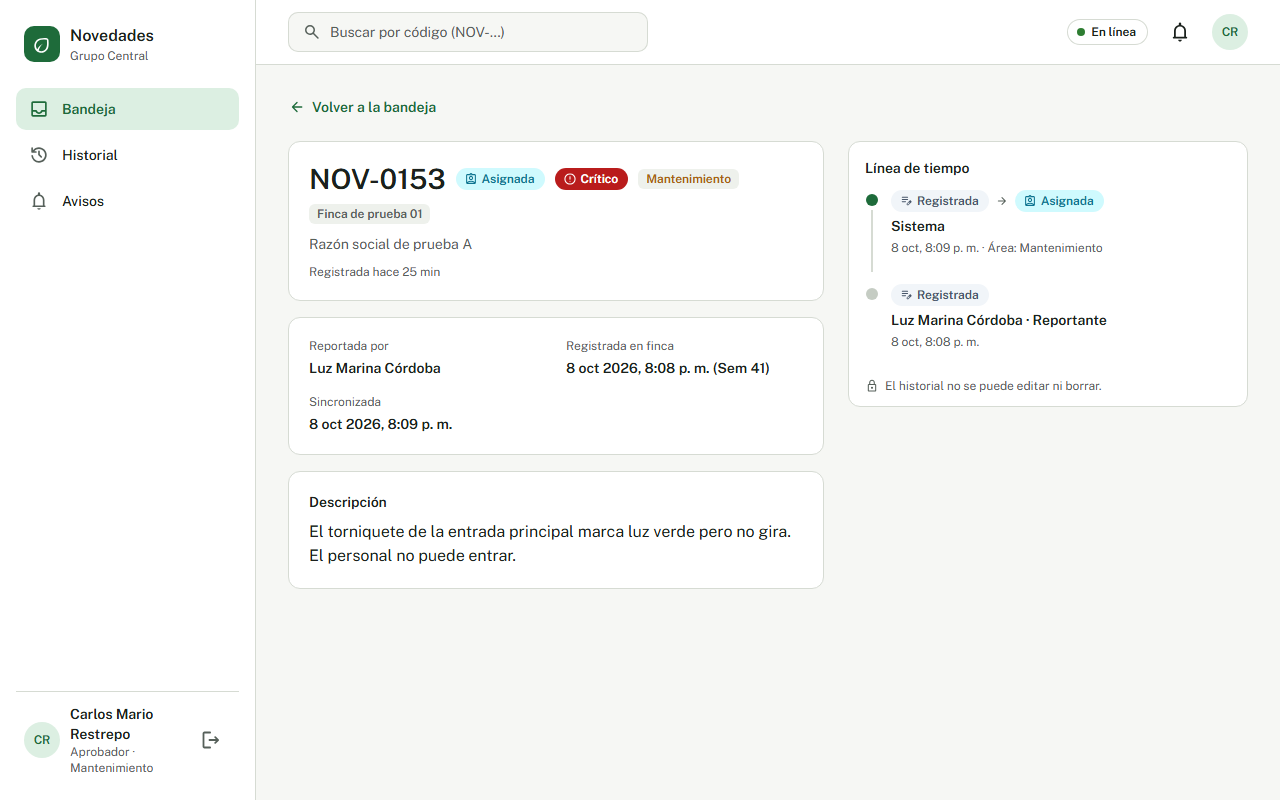
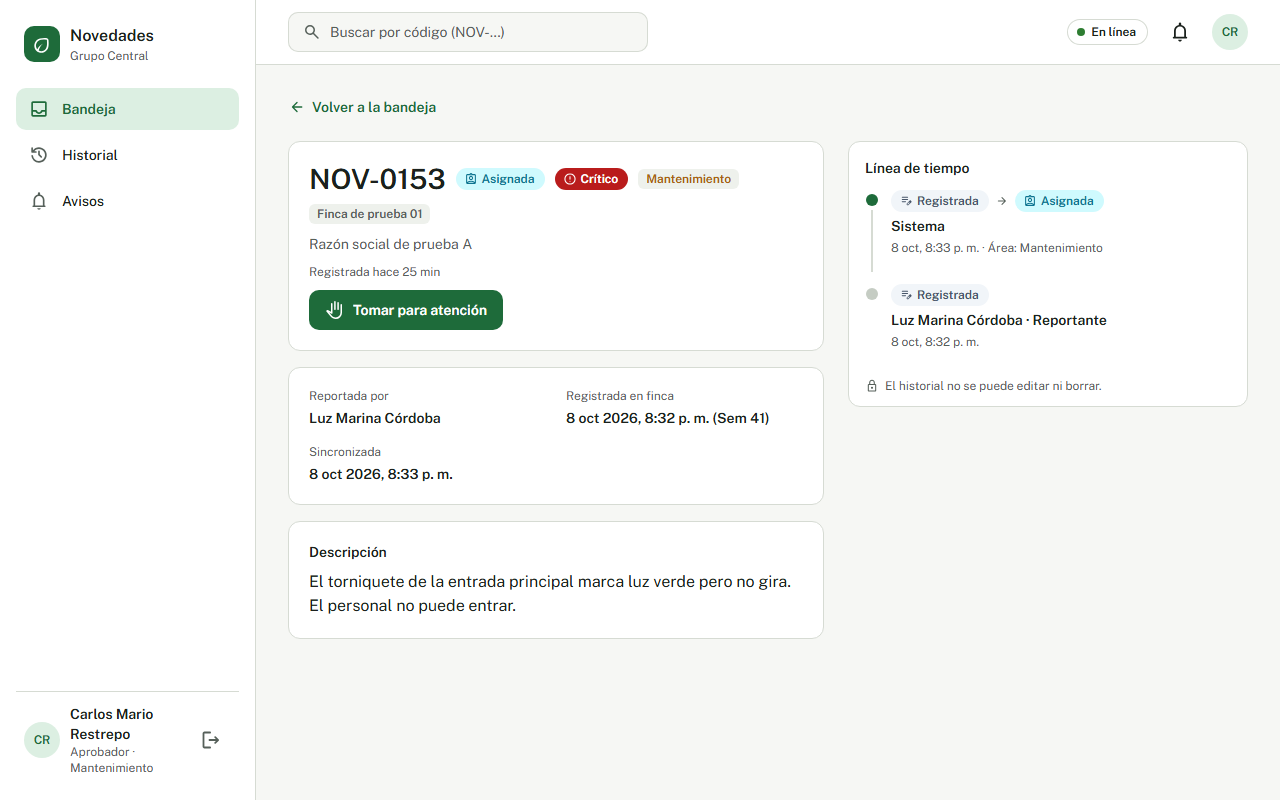
test(RF-10): e2e de CU-10, capturas y decisiones
- e2e/cu-10-tomar-novedad.spec.js: el aprobador abre la novedad desde su
  bandeja y la toma; el reportante recibe su aviso. Con dos ventanas, la
  segunda recibe «La novedad cambió de estado» y se actualiza.
- Capturas de 13, 13-B y 14-C a 360 × 800 y 1280 × 800, y de la vista previa
  de la bandeja con su acción.
- docs/cambios-sdd.md, punto 7: el rol que no corresponde a la acción recibe
  SIN_PERMISO, como la Tabla 22.
- docs/decisiones-pendientes.md, punto 21 y peso de la ruta de ingreso
  (185,6 KB de 200).

diff --git a/e2e/cu-10-tomar-novedad.spec.js b/e2e/cu-10-tomar-novedad.spec.js
@@ -1,0 +1,129 @@
+import { expect, test } from '@playwright/test'
+import { cargarTodaLaLista, novedadesDeLaLista, registrarPorLaApi } from './apoyo/novedades.js'
+import { descripcionUnica } from './apoyo/registro.js'
+import { HAY_CLAVE, ingresarComo, leerDeLaApi, MOTIVO_SIN_CLAVE } from './apoyo/usuarios.js'
+
+/*
+ * CU-10 · Tomar una novedad para atención (RF-10). Pantallas 13 (asignada), 13-B (tomada) y
+ * 14 (en atención).
+ *
+ * El aviso al reportante y el estado se comprueban leyendo la API con la sesión de cada uno:
+ * la pantalla de avisos llega en el Sprint 5.
+ */
+
+const ESPERA_DE_SESION = { timeout: 20_000 }
+
+test.describe('CU-10 · Tomar novedad para atención', () => {
+  test.skip(!HAY_CLAVE, MOTIVO_SIN_CLAVE)
+
+  const sesionDe = async (browser, rol) => {
+    const contexto = await browser.newContext()
+    const page = await contexto.newPage()
+    await ingresarComo(page, rol)
+    return { contexto, page }
+  }
+
+  /** El reportante registra una novedad para Mantenimiento y cierra su sesión. */
+  async function registrar(browser, descripcion) {
+    const reportante = await sesionDe(browser, 'reportante')
+    const novedad = await registrarPorLaApi(reportante.page, {
+      descripcion,
+      prioridad: 'alto',
+      area: 'Mantenimiento',
+    })
+    await reportante.contexto.close()
+    return novedad
+  }
+
+  test('RF-10 / CU-10: el aprobador abre la novedad desde su bandeja y la toma; queda en atención y el reportante recibe su aviso', async ({
+    browser,
+  }, testInfo) => {
+    const descripcion = descripcionUnica(testInfo, 'La puerta del cuarto frío no cierra')
+    const novedad = await registrar(browser, descripcion)
+
+    // CU-10 1: la selecciona en su bandeja.
+    const { contexto, page } = await sesionDe(browser, 'aprobador')
+    await cargarTodaLaLista(page)
+    const enLaLista = novedadesDeLaLista(page).filter({ hasText: descripcion })
+    // En el teléfono la tarjeta abre el detalle; en el escritorio se elige la fila y se abre
+    // desde la vista previa.
+    if (await page.getByRole('table').isVisible()) {
+      await enLaLista.getByRole('button').click()
+      await page.getByRole('link', { name: 'Ver detalle completo' }).click()
+    } else {
+      await enLaLista.getByRole('link').click()
+    }
+    await expect(page).toHaveURL(new RegExp(`/novedades/${novedad.id}$`))
+
+    // CU-10 2 y 3: la toma y queda en atención (pantalla 13-B).
+    await page.getByRole('button', { name: 'Tomar para atención' }).click()
+    await expect(page.getByText('Novedad tomada. Ya está En atención.')).toBeVisible()
+    await expect(
+      page.getByRole('group', { name: 'Datos de la novedad' }).getByText('En atención'),
+    ).toBeVisible()
+    await expect(page.getByRole('button', { name: 'Tomar para atención' })).toHaveCount(0)
+
+    // CU-10 4: la línea de tiempo muestra la transición y quién la tomó.
+    const pasos = page.getByRole('region', { name: 'Línea de tiempo' }).getByRole('listitem')
+    await expect(pasos).toHaveCount(3)
+    await expect(
+      pasos.nth(0).getByText('Aprobador de prueba Mantenimiento · Aprobador · Mantenimiento'),
+    ).toBeVisible()
+    await expect(page.getByText(/Tomada por Aprobador de prueba Mantenimiento/)).toBeVisible()
+    await contexto.close()
+
+    // CU-10 5: el reportante tiene su aviso, y ve la novedad en atención.
+    const reportante = await sesionDe(browser, 'reportante')
+    const avisos = await leerDeLaApi(
+      reportante.page,
+      `notificacion?select=estado_nuevo,leida&novedad_id=eq.${novedad.id}`,
+    )
+    expect(avisos).toEqual([{ estado_nuevo: 'en_atencion', leida: false }])
+    const [vista] = await leerDeLaApi(
+      reportante.page,
+      `v_novedad?select=estado&id=eq.${novedad.id}`,
+    )
+    expect(vista).toEqual({ estado: 'en_atencion' })
+    await reportante.contexto.close()
+  })
+
+  test('RF-10 / CU-10: si la novedad ya fue tomada en otra ventana, la segunda avisa que cambió de estado y se actualiza', async ({
+    browser,
+  }, testInfo) => {
+    const descripcion = descripcionUnica(testInfo, 'El extractor de la empacadora hace ruido')
+    const novedad = await registrar(browser, descripcion)
+
+    // El mismo aprobador tiene el detalle abierto en dos ventanas, las dos con la novedad
+    // asignada.
+    const { contexto, page: primera } = await sesionDe(browser, 'aprobador')
+    await primera.goto(`/novedades/${novedad.id}`)
+    await expect(primera.getByRole('button', { name: 'Tomar para atención' })).toBeVisible(
+      ESPERA_DE_SESION,
+    )
+    const segunda = await contexto.newPage()
+    await segunda.goto(`/novedades/${novedad.id}`)
+    await expect(segunda.getByRole('button', { name: 'Tomar para atención' })).toBeVisible(
+      ESPERA_DE_SESION,
+    )
+
+    // La primera la toma.
+    await primera.getByRole('button', { name: 'Tomar para atención' }).click()
+    await expect(primera.getByText('Novedad tomada. Ya está En atención.')).toBeVisible()
+
+    // La segunda llega tarde: el servidor responde TRANSICION_INVALIDA y el detalle se recarga.
+    await segunda.getByRole('button', { name: 'Tomar para atención' }).click()
+    await expect(segunda.getByRole('alert')).toHaveText('La novedad cambió de estado.')
+    await expect(
+      segunda.getByRole('group', { name: 'Datos de la novedad' }).getByText('En atención'),
+    ).toBeVisible()
+    await expect(segunda.getByRole('button', { name: 'Tomar para atención' })).toHaveCount(0)
+
+    // Quedó una sola transición a en atención.
+    const tomas = await leerDeLaApi(
+      segunda,
+      `historial_transicion?select=id&novedad_id=eq.${novedad.id}&estado_nuevo=eq.en_atencion`,
+    )
+    expect(tomas).toHaveLength(1)
+    await contexto.close()
+  })
+})

diff --git a/docs/decisiones-pendientes.md b/docs/decisiones-pendientes.md
@@ -15,7 +15,7 @@ tomó la opción más conservadora y se dejó anotada para que Mateo y Juan la c
 | 8   | Versión de Node y de jsdom                 | jsdom 29, compatible con Node 24.14                                  | El equipo         |
 | 9   | Estados de interacción que Figma no dibuja | Solo el `hover` del botón primario                                   | El equipo (Figma) |
 | 10  | Textos que no están en Figma               | Redactados con tuteo; listados abajo                                 | El equipo         |
-| 11  | Peso de la ruta de ingreso                 | Medido: 183,8 KB de 200 KB                                           | El equipo         |
+| 11  | Peso de la ruta de ingreso                 | Medido: 185,6 KB de 200 KB                                           | El equipo         |
 | 12  | Borde del botón secundario                 | Se dejó el color de Figma                                            | El equipo (Figma) |
 | 13  | Detalles de las pantallas 04, 05 y 06      | Resueltos con el criterio más cercano a Figma; listados abajo        | El equipo (Figma) |
 | 14  | Pantallas 05 y 06 en el escritorio         | Dentro del marco del escritorio, en una columna centrada             | El equipo (Figma) |
@@ -25,6 +25,7 @@ tomó la opción más conservadora y se dejó anotada para que Mateo y Juan la c
 | 18  | Primer administrador de producción         | **Decidido:** una sola cuenta, compartida. Falta crearla             | El equipo         |
 | 19  | Detalles de la bandeja del área (11 y 12)  | Resueltos con el criterio más cercano a Figma; listados abajo        | El equipo (Figma) |
 | 20  | Detalles del detalle (13, 14, 22 y 22-B)   | Resueltos con el criterio más cercano a Figma; listados abajo        | El equipo (Figma) |
+| 21  | Acciones del aprobador (13-B y 14-C)       | Resueltas con el criterio más cercano a Figma; listadas abajo        | El equipo (Figma) |
 
 ## 1 · Lista oficial de fincas y razones sociales
 
@@ -151,6 +152,9 @@ Redactados en español de Colombia, con tuteo, para que los revisen:
   inicio» para el director y el administrador (Figma solo dibuja el del reportante); en la línea de
   tiempo, «Área: de Sistemas a Mantenimiento» para una reasignación, y «pasa a» entre los dos
   estados para los lectores de pantalla; «Registró» en la solución, como la pantalla 09.
+- **Acciones del aprobador (Sprint 2):** mientras la acción se ejecuta, el botón dice «Tomando…»;
+  el aviso de 14-C nombra el estado en que quedó la novedad («La novedad sigue Asignada.»; Figma
+  lo escribe para una en atención).
 - **Mensajes de error de la Tabla 22:** el SDD da la idea de cada uno; la redacción exacta está en
   `src/core/errores/traducir.js`.
 
@@ -169,6 +173,11 @@ Sprint 1:
 
 Quedan unos 16 KB. Todo lo que tiene sesión se carga bajo demanda y no cuenta aquí: el marco
 (5,8 KB), Mis novedades (3,1 KB), Registrar (5,1 KB) y la constancia (1,7 KB).
+
+**Sprint 2, medido el 8 oct 2026 con «Tomar novedad» (RF-10):** ≈ 185,6 KB (JavaScript 149,0 KB,
+CSS 7,6 KB, fuente 26,8 KB y registro del service worker 2,2 KB). Quedan unos 14 KB. Lo nuevo se
+carga bajo demanda: la bandeja (5,4 KB), el detalle (4,9 KB) y las acciones del aprobador
+(0,8 KB), que solo descarga ese rol. Lo que sube es el CSS, 1,4 KB desde el Sprint 1.
 
 **Riesgo:** el CSS es un solo archivo y crece con cada pantalla (4,2 KB en el Sprint 0; 6,2 KB
 ahora), y los componentes compartidos que usa el ingreso también suman. Hay que seguir midiéndolo
@@ -362,3 +371,28 @@ Lo que Figma no alcanza a decidir, o en lo que sus pantallas no coinciden entre 
   si se llegó por la dirección, la de inicio del rol.
 - **Anchos entre 1024 y 1279 px.** La línea de tiempo va debajo de los datos; desde 1280 px, a la
   derecha, con los 400 px de Figma.
+
+## 21 · Acciones del aprobador en el detalle (13, 13-B, 14 y 14-C)
+
+Lo que Figma no dibuja o deja abierto de las acciones, resuelto con las decisiones 4 y 9 del plan
+del Sprint 2:
+
+- **En el escritorio.** Figma solo dibuja las acciones en el teléfono. En el escritorio los botones
+  van bajo el encabezado del detalle, y el aviso temporal, abajo a la derecha. En la vista previa
+  de la bandeja (12) va la acción principal de la novedad («Tomar para atención» en una asignada);
+  las demás se ejecutan desde el detalle.
+- **Barra de acciones del teléfono.** Reemplaza a la navegación inferior, como en 13 y 14. Si la
+  novedad queda sin acciones, vuelve la navegación y el aviso se muestra encima de ella. Hasta que
+  lleguen rechazar, escalar, reasignar y registrar la solución (RF-11, 12, 17 y 14), una novedad en
+  atención no tiene barra.
+- **Después de tomarla.** La persona se queda en el detalle, que se actualiza sin pasar por
+  «Cargando…»: cambian el estado, la línea de tiempo y «Tomada por». El foco del teclado pasa al
+  contenido de la página, porque el botón que lo tenía desaparece.
+- **Cuánto dura el aviso.** El de confirmación (13-B) se quita solo a los 6 segundos. El de error
+  (14-C) se queda hasta que la persona actúe, porque trae «Reintentar». Figma no fija la duración.
+- **Sin conexión (14-C).** Si la acción no llega al servidor, no se encola ni se reintenta sola: el
+  aviso dice que no se aplicó y en qué estado sigue la novedad, y ofrece «Reintentar» (RF-25).
+- **Si otra persona ya actuó.** Con `TRANSICION_INVALIDA` se muestra «La novedad cambió de estado.»
+  y el detalle se recarga solo (Tabla 22).
+- **Mientras se ejecuta.** El botón queda deshabilitado y dice «Tomando…», para que no se envíe dos
+  veces.

diff --git a/docs/cambios-sdd.md b/docs/cambios-sdd.md
@@ -12,6 +12,7 @@ actualicen los documentos (lo exige la Definition of Done).
 | 4   | S1     | SDD 6.1.1, Tabla 27                         | Complemento: índices en las claves foráneas que la Tabla 27 no cubre                                                   | Propuesto |
 | 5   | S1     | SDD 3.3.3 («Sesión sin conexión»)           | Precisión: sin red la aplicación abre con el perfil guardado, sin esperar al cliente de Supabase                       | Propuesto |
 | 6   | S2     | SDD 5.3.2, Tabla 21                         | Precisión: parámetros opcionales de `registrar_solucion` y columnas de salida de `sugerir_tipos_falla`                 | Propuesto |
+| 7   | S2     | SDD 6.1.3 (algoritmo general)               | Precisión: el rol que no corresponde a la acción recibe `SIN_PERMISO`, como en la Tabla 22, y no `TRANSICION_INVALIDA` | Propuesto |
 
 ## 1 · Service worker sin librerías de Workbox (S0)
 
@@ -115,3 +116,29 @@ la misma tabla.
 
 > Filas con id, nombre, cantidad_novedades y coincidencia_exacta de los tipos activos que coinciden
 > con el texto. RF-14
+
+## 7 · Rol que no corresponde a la acción: `SIN_PERMISO` (S2)
+
+**Sección:** SDD 6.1.3, algoritmo general de las funciones de transición, y Tabla 22.
+
+**Qué pasa.** El algoritmo general comprueba en un solo paso el estado, la acción y el rol, y
+responde `TRANSICION_INVALIDA` si la combinación no está permitida. La Tabla 22, en cambio, deja
+`SIN_PERMISO` para el rol o el alcance que no permiten la acción y `TRANSICION_INVALIDA` para el
+estado. Con el algoritmo al pie de la letra, un reportante que llamara a `tomar_novedad` recibiría
+el aviso de que la novedad cambió de estado y el cliente recargaría el detalle, que no es lo que
+pasó. Se implementó como la Tabla 22, en este orden: el perfil y el rol (`SIN_PERMISO`), el bloqueo
+de la fila y el alcance (`SIN_PERMISO`) y, por último, el estado (`TRANSICION_INVALIDA`). Así,
+además, un usuario de otro rol no llega a bloquear la fila.
+
+Estas comprobaciones, los destinatarios y la escritura de los avisos son comunes a todas las
+transiciones del sprint: viven en funciones auxiliares del esquema `private`, sin permiso de
+ejecución para los roles de la API (migración `rf10_transiciones_base`).
+
+**Texto propuesto (reemplaza las tres comprobaciones del algoritmo):**
+
+> u ← perfil del usuario autenticado. SI u no existe, NO u.activo O u.rol no es el de la acción →
+> ERROR SIN_PERMISO
+>
+> n ← la novedad, con bloqueo de la fila. SI n no existe O NO alcance(u, n) → ERROR SIN_PERMISO
+>
+> SI n.estado no admite la acción → ERROR TRANSICION_INVALIDA
